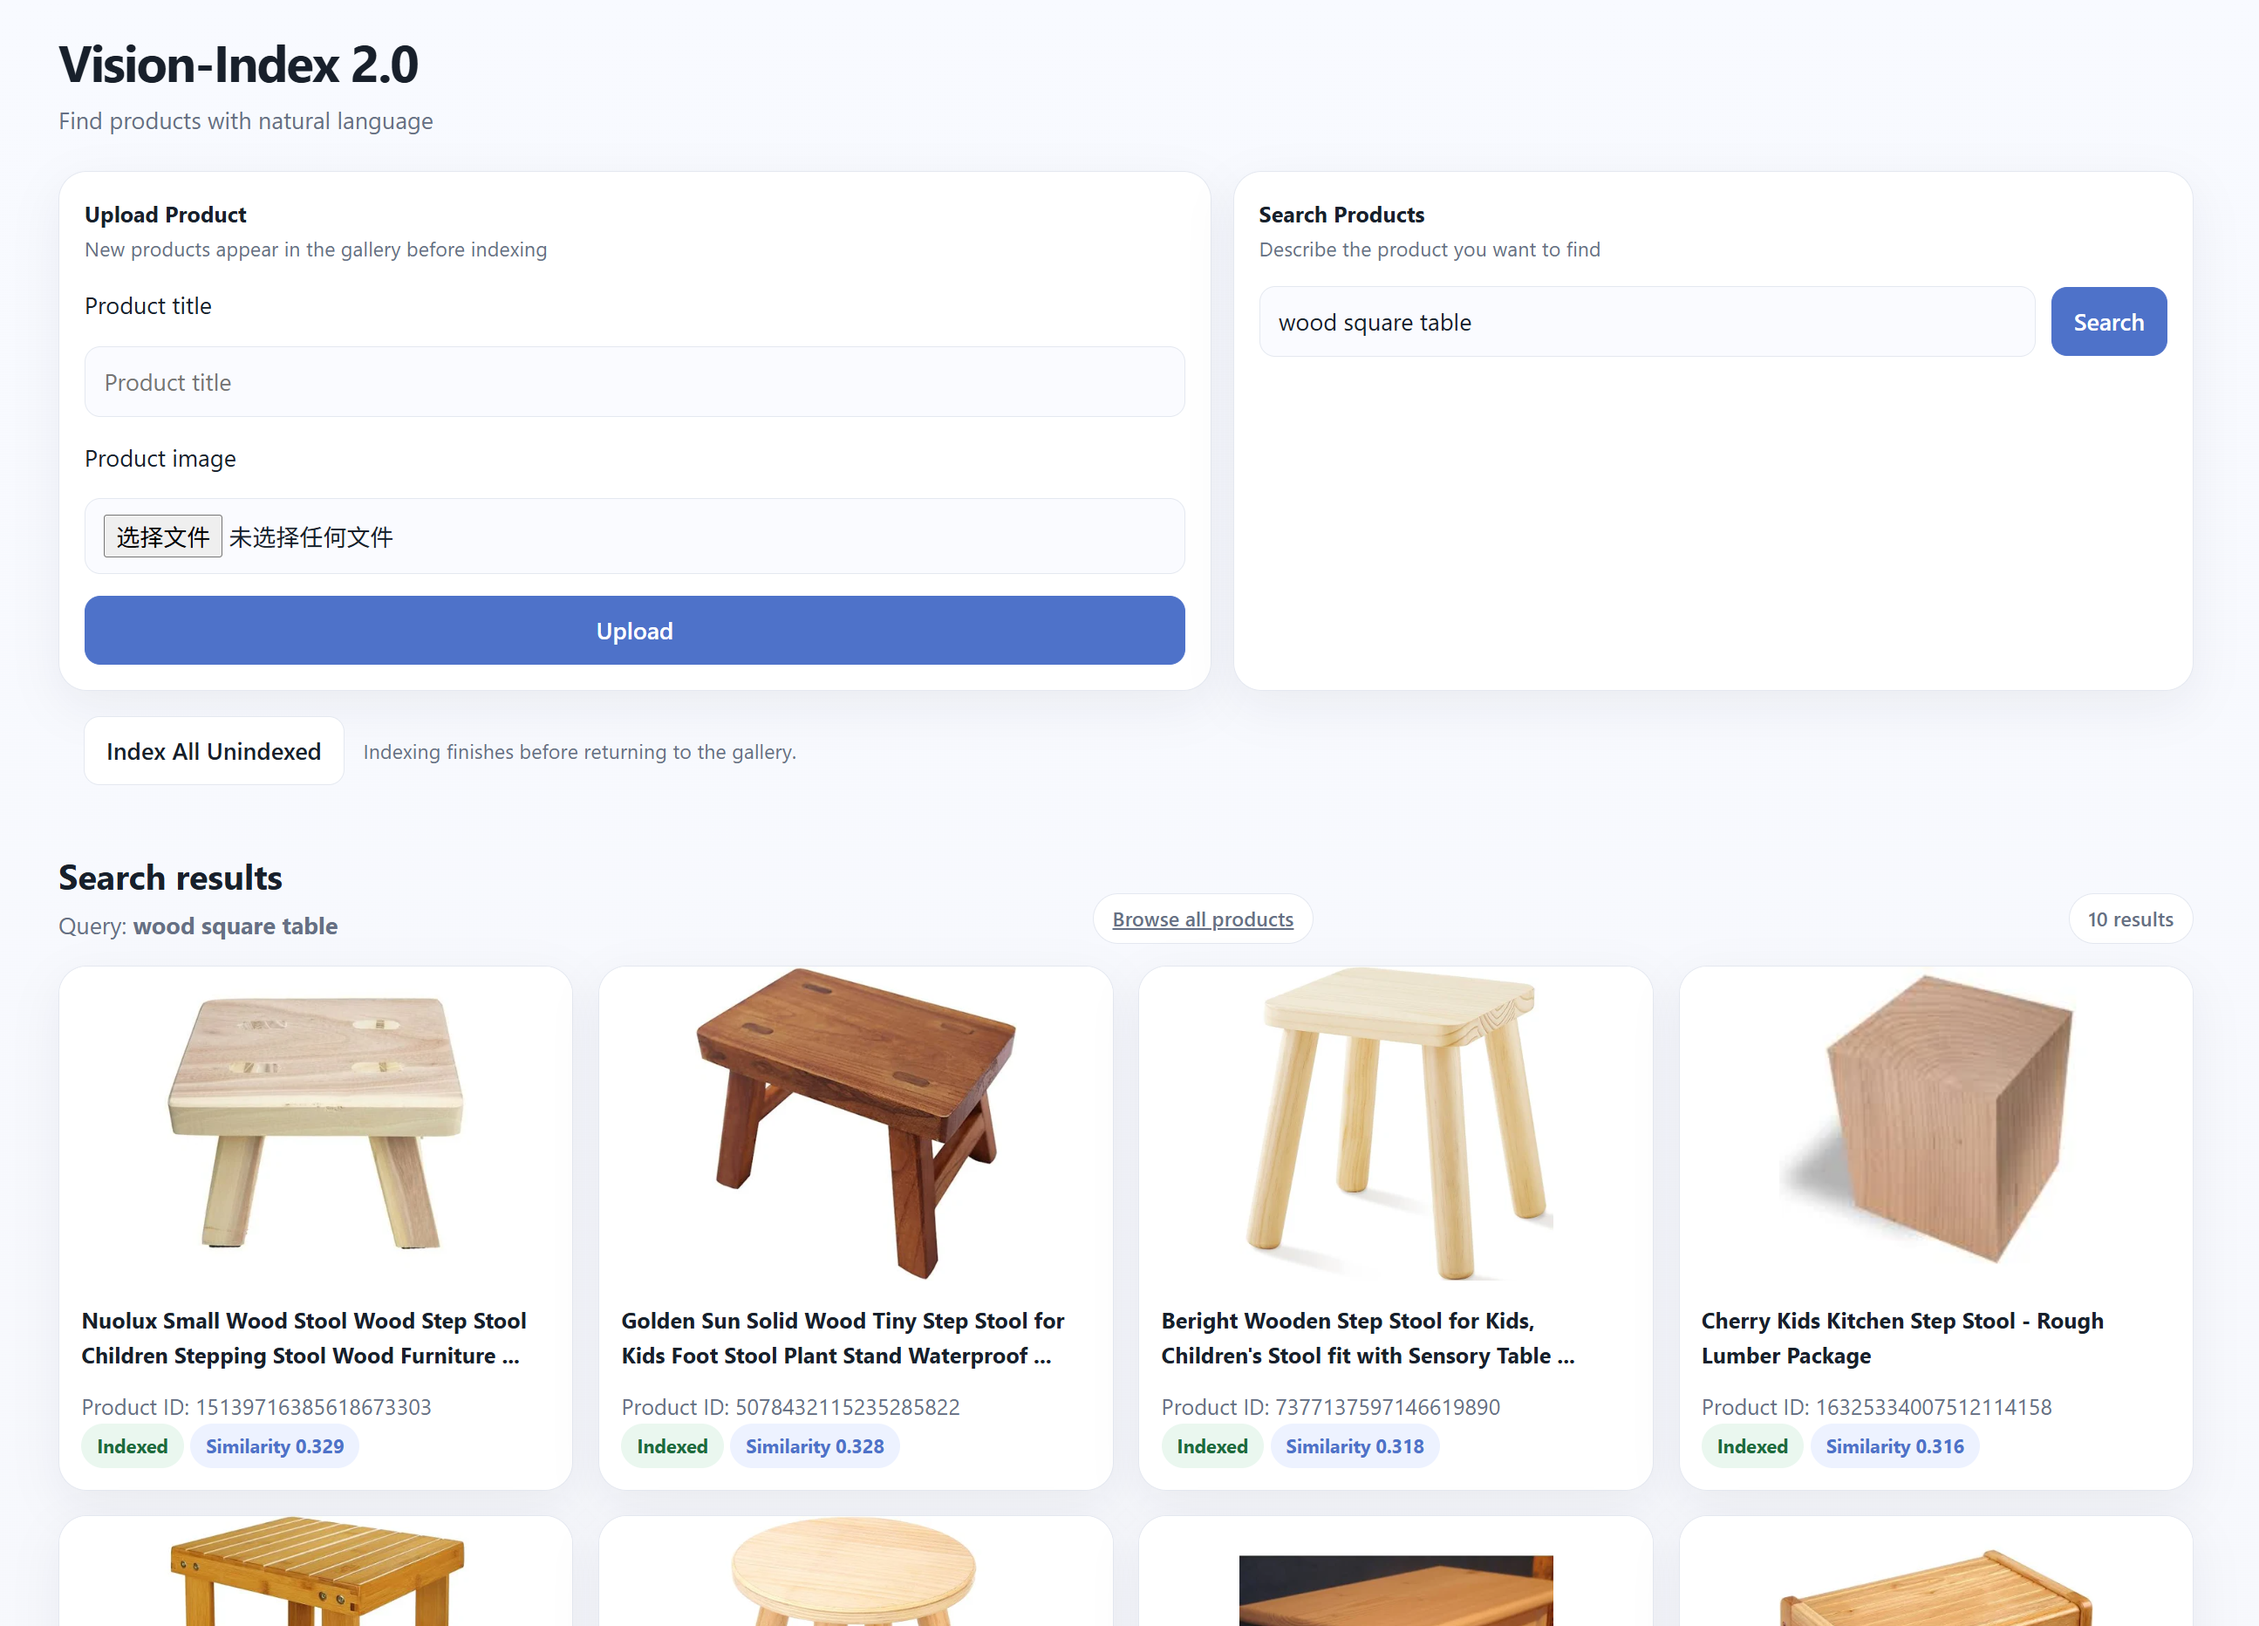
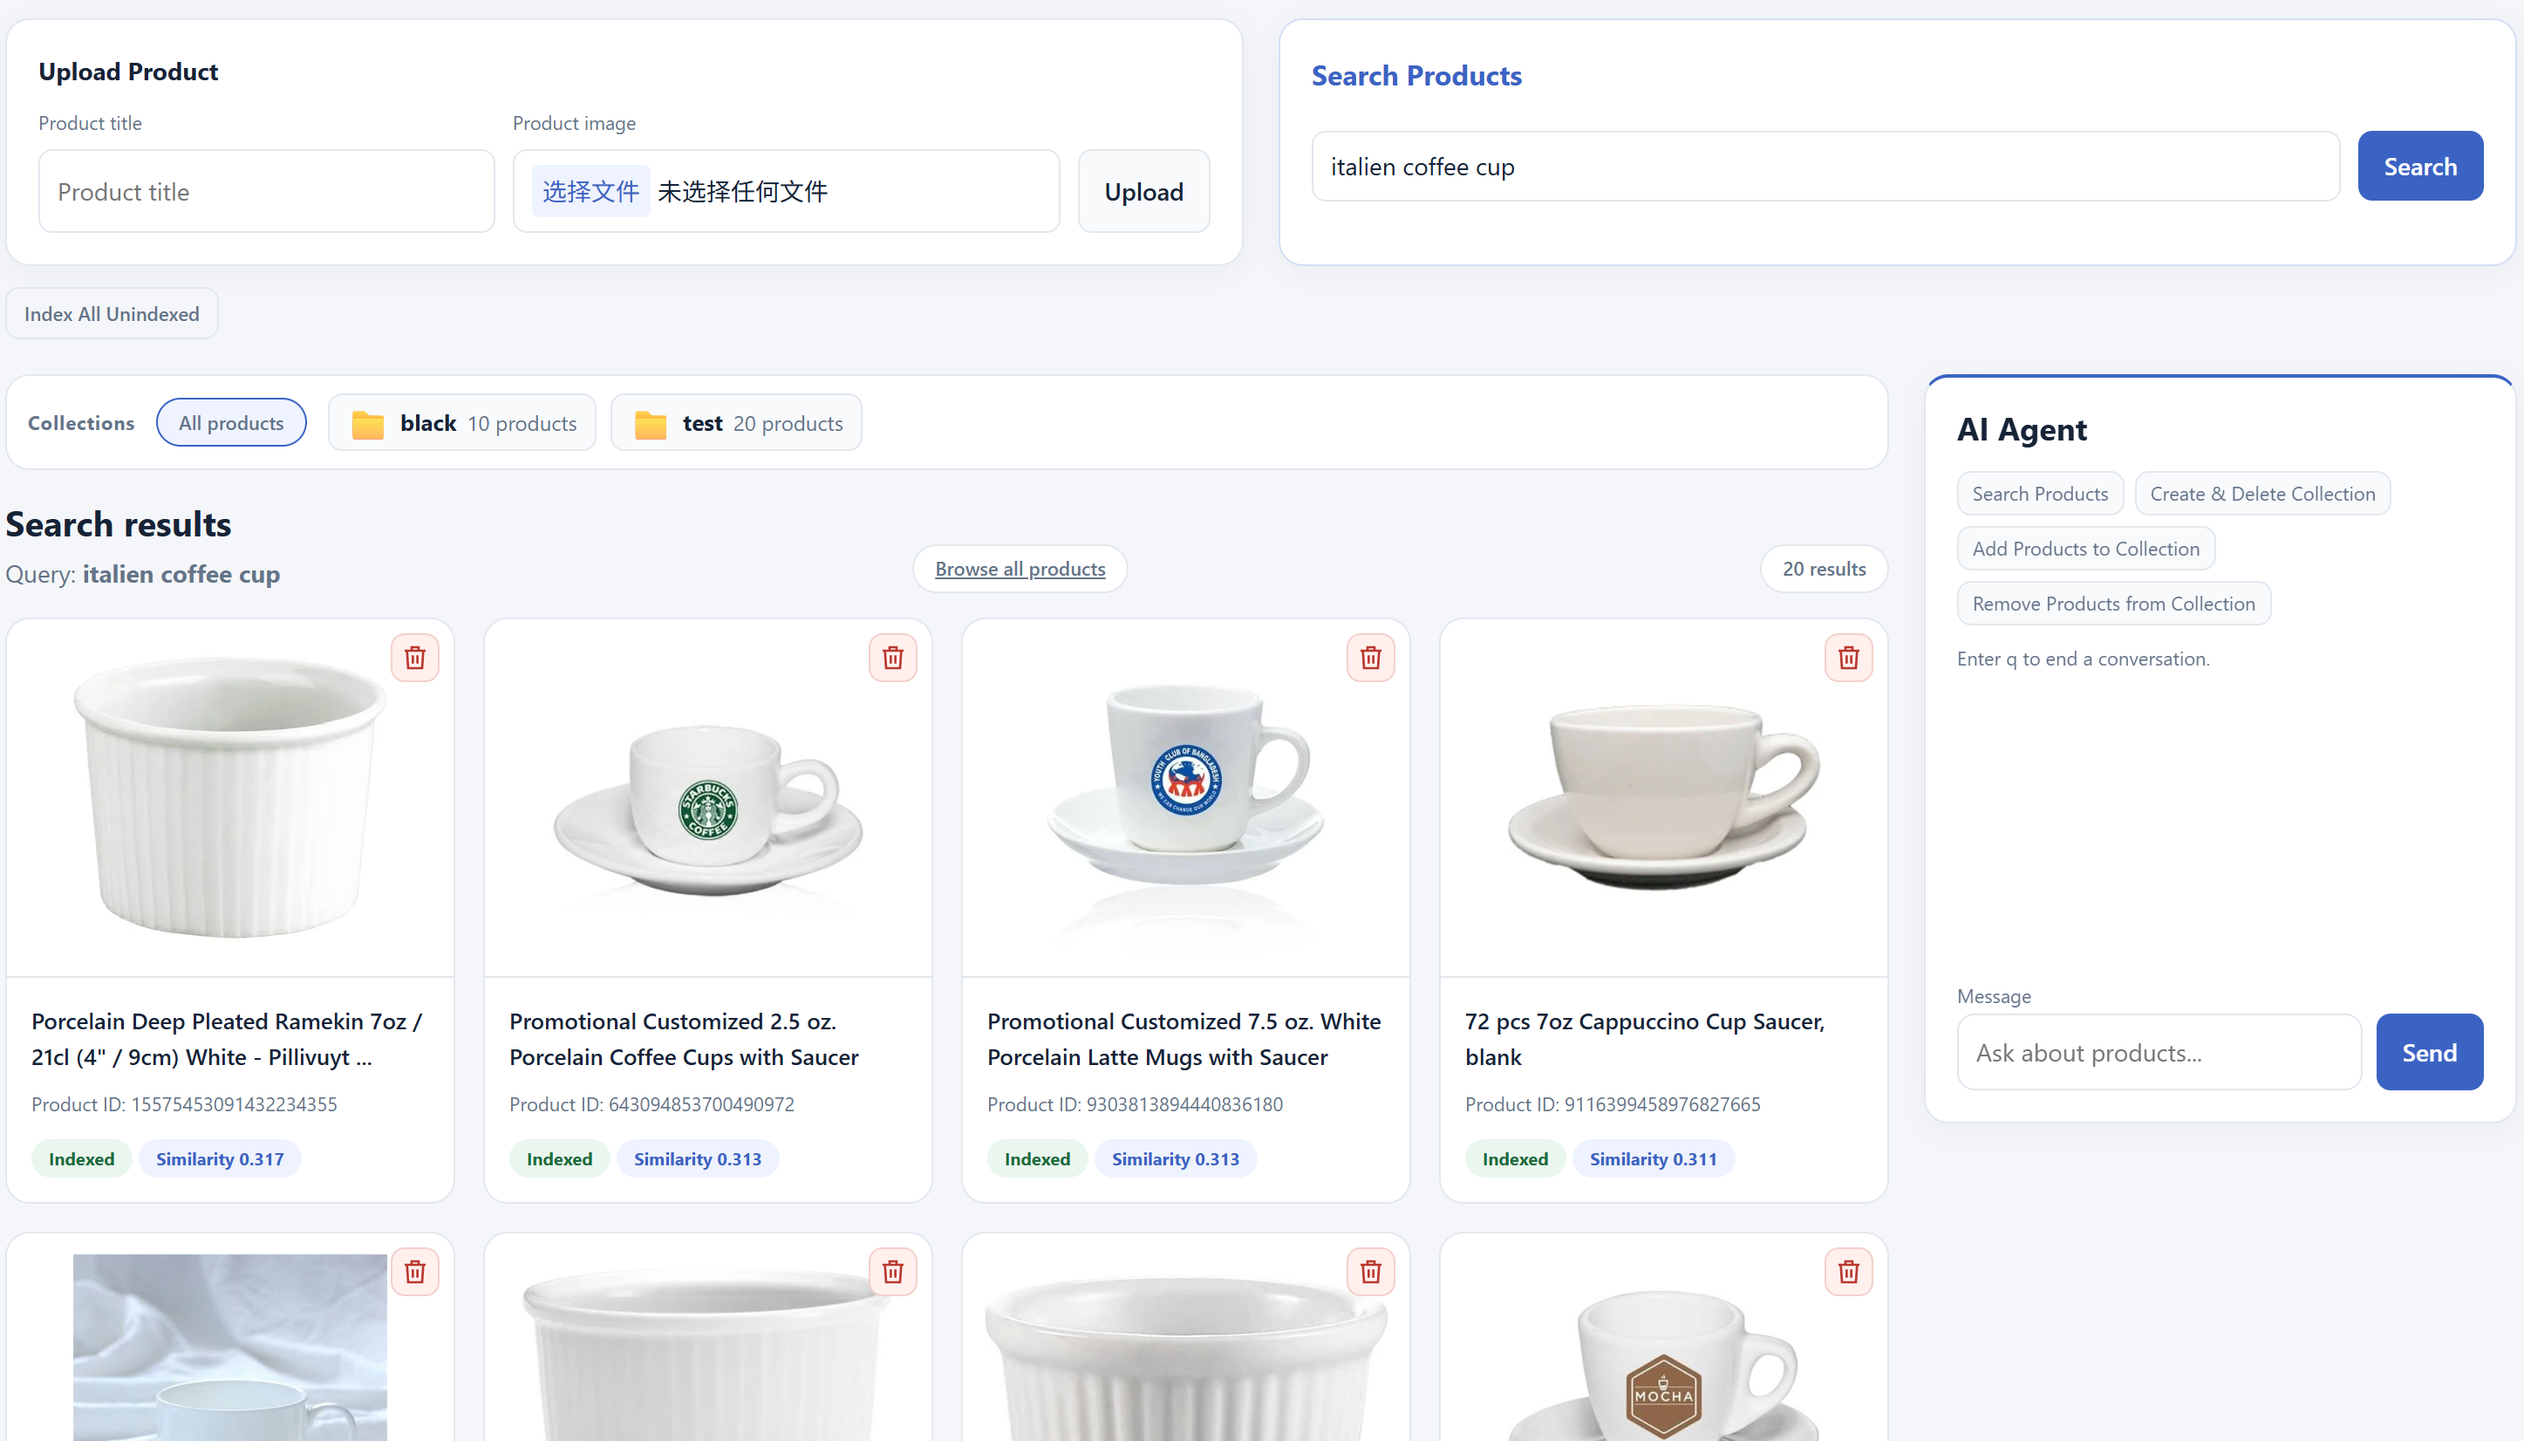
update readme

diff --git a/README.md b/README.md
@@ -1,35 +1,42 @@
-# Vision-Index: CLIP-based E-commerce Product Search
+# Vision-Index: AI-Assisted E-commerce Product Search & Management
 
-**With Projection-Layer Fine-tuning and Multi-Scenario Evaluation**
+**Conversational AI Agent · CLIP-based Retrieval · Projection-Layer Fine-tuning · Multi-Scenario Evaluation**
 
 ## Introduction
 
-Vision-Index lets users browse products, upload images, index images, and search with natural-language.
+Vision-Index is an interactive application for finding and organizing e-commerce products. 
 
-The current version provides an interactive FastAPI dashboard, CLIP projection-layer fine-tuning, and an offline evaluation pipeline comparing pretrained and fine-tuned retrieval across 3 test scenarios.
+Users can browse products, upload images, search with natural language, and manage collections through a conversational AI agent.
 
-**Tech Stack:** Python · PyTorch · Hugging Face · CLIP · FastAPI · SQLite · ChromaDB
+The project also includes CLIP projection-layer fine-tuning and an offline evaluation pipeline to measure retrieval performance across three test scenarios.
+
+**Tech Stack:** Python · PyTorch · Hugging Face · CLIP · FastAPI · SQLite · ChromaDB · DeepSeek · LangChain · LangGraph
 
 
 ## Demo
 
-### Upload Images, Run Indexing
+### Upload Images and Run Indexing
 
 ![Homepage showing the gallery](doc/homepage.png)
 
-### Search by Queries and Inspect Scores
+### Search Products and Inspect Scores
 
 ![Search results](doc/search.png)
 
+### Manage Collections through AI Chat
+
+![Agent Chat](doc/agentchat.png)
+![Agent Result](doc/agentresult.png)
 ---
 
 ## Key Features
 
-- **Real-world E-commerce Data:** Processed 9,934 products from the Marqo-GS-10M dataset, including product images, metadata, and query–product pairs.
-- **Interactive FastAPI Dashboard:** Supports natural-language product search, image gallery browsing, image uploads, and batch indexing.
-- **Efficient Local AI Inference:** Uses CLIP to generate multimodal embeddings for semantic product retrieval.
+- **Interactive Web Dashboard:** Built with FastAPI and supports product browsing, image uploads, semantic search, and an integrated agent chat panel.
+- **Conversational AI Agent:** Uses DeepSeek and LangGraph to search products, inspect collections, create or delete collections, and add or remove products through multi-turn chat.
+- **Efficient Retrieval:** Runs CLIP locally to encode product images and text queries, searches image vectors in ChromaDB, and retrieves product metadata from SQLite.
+- **Real-world E-commerce Data:** Processed 9,934 products from the Marqo-GS-10M dataset, including product images, metadata, and query–product pairs. 
 - **CLIP Fine-tuning:** Trains text and image projection layers while keeping both encoders frozen.
-- **Retrieval Benchmarking:** Compares pretrained and fine-tuned CLIP using full-catalog Recall@K and nDCG@K, including unseen-query tests.
+- **Multi-Scenario Retrieval Evaluation:** Compares pretrained and fine-tuned CLIP using full-catalog Recall@K and nDCG@K, including unseen-query tests.
 
 ---
 
@@ -52,6 +59,21 @@ flowchart LR
     B --> C[Cosine search in Chroma]
     C --> D[Load product metadata from SQLite]
     D --> E[Ranked product cards]
+```
+
+### Conversational AI Agent
+
+```mermaid
+flowchart LR
+    A[User message] --> B[LLM + conversation context]
+    B --> C{Tool call?}
+    C -->|No| D[Reply to user]
+    C -->|Read| E[Search or inspect collections]
+    C -->|Write| F{User approval}
+    F -->|Approved| G[Update collections]
+    F -->|Cancelled| B
+    E --> B
+    G --> B
 ```
 
 **Model:** `openai/clip-vit-base-patch32` · normalized 512-dimensional embeddings.
